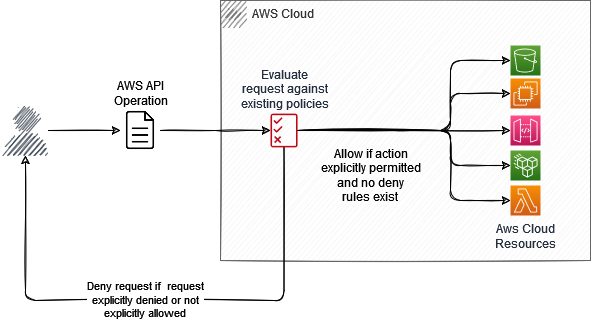
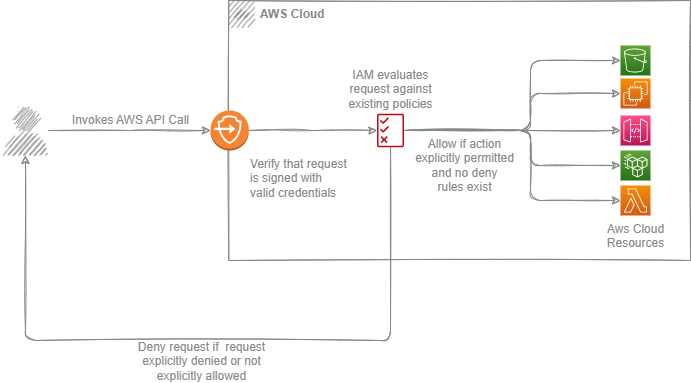
Adding IAM intro page

Changed region(s): [[0.0, 0.0, 1.0, 1.0]]

diff --git a/web/content/aws/iam/introduction.md b/web/content/aws/iam/introduction.md
@@ -8,7 +8,7 @@ IAM, which stands for Identity Access Management, is an AWS service used to mana
 
 ## Overview
 
-When a user or web service needs to access an AWS resource through the API, web console, or SDK, an HTTP request is sent to the endpoint for that AWS service. This request is then evaluated against all relevant IAM policies, which dictate the permissions for the caller. As long as there exists at least one permission granting access and no explicit deny effect in any policies or permission boundaries, then the request is granted. Otherwise, it is rejected.
+When a user or application needs to access an AWS resource through the API or web console, an HTTP request is sent to the endpoint for the target AWS service. After verifying the signature, the request is evaluated against all relevant IAM access policies, which dictate the allowed actions for the caller. As long as there exists at least one rule granting access and no explicit deny rule in any policies or permission boundaries, then the request is granted. Otherwise, it is rejected.
 
 ![IAM Access Flow](/images/iam/iam_flow.png)
 
@@ -20,11 +20,11 @@ IAM primarily handles all aspects of authentication and authorization when acces
 
 ### Authentication
 
-Authentication verifies the idenitty of the caller. To accomplish this, IAM provides user and group entities for managing user identity information. Users, which typically define human users, groups, which can manage permissions for a group of users, and roles, which can be assumed by a caller to perform a given set of actions.
+Authentication verifies the identity of the caller. To accomplish this, IAM provides user and group entities for managing user identity information. Users, which typically define human users, groups, which can manage permissions for a group of users, and roles, which can be assumed by a caller to perform a given set of actions.
 
 ### Authorization
 
-Once the identity of the caller has been verified, the next step is to determine whether they are authorized to perform the requested action. To accomplish this, IAM checks identitiy permissions against policies, which determine the allowed and restricted actions for a given user. Additionally, IAM also provides Attribute Access Control (ABAC), which allows or denies a given action based on the tags associated with a given caller.
+Once the identity of the caller has been verified, the next step is to determine whether they are authorized to perform the requested action. To accomplish this, IAM checks identity permissions against policies, which determine the allowed and restricted actions for a given user. Additionally, IAM also provides Attribute Access Control (ABAC), which allows or denies a given action based on the tags associated with a given caller.
 
 ## Non-Features
 

diff --git a/web/content/aws/iam/_index.md b/web/content/aws/iam/_index.md
@@ -1,11 +1,10 @@
 ---
 title: IAM
-draft: true
+draft: false
 chapter: true
-
 weight: 5
 ---
 
 # IAM
 
-Service for Authorizing Access to AWS Resources
+When managing AWS accounts and developing services that need access to cloud resources, it is necessary to provide a way to define levels of access to AWS APIs and resources within a given AWS account. AWS Identity and Access Management (IAM) service enables cloud administrators to manage access for given actors within an AWS account.

diff --git a/web/content/aws/canonical_requests/_index.md b/web/content/aws/canonical_requests/_index.md
@@ -2,7 +2,7 @@
 title: Canonical Requests
 draft: false
 chapter: true
-weight: 5
+weight: 4
 ---
 
 # Canonical Requests
